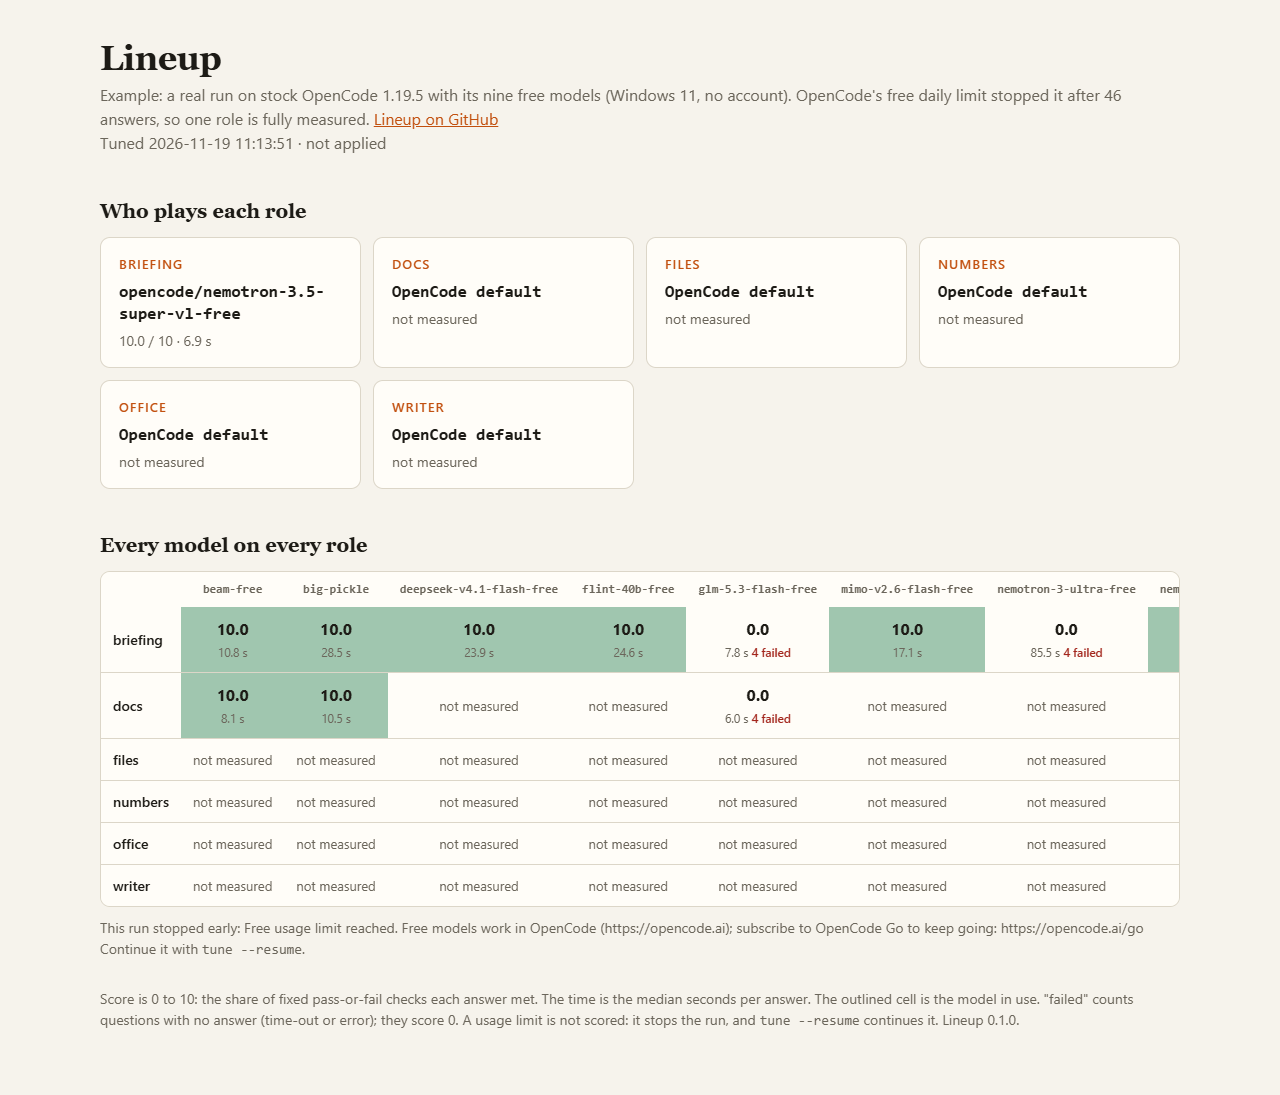
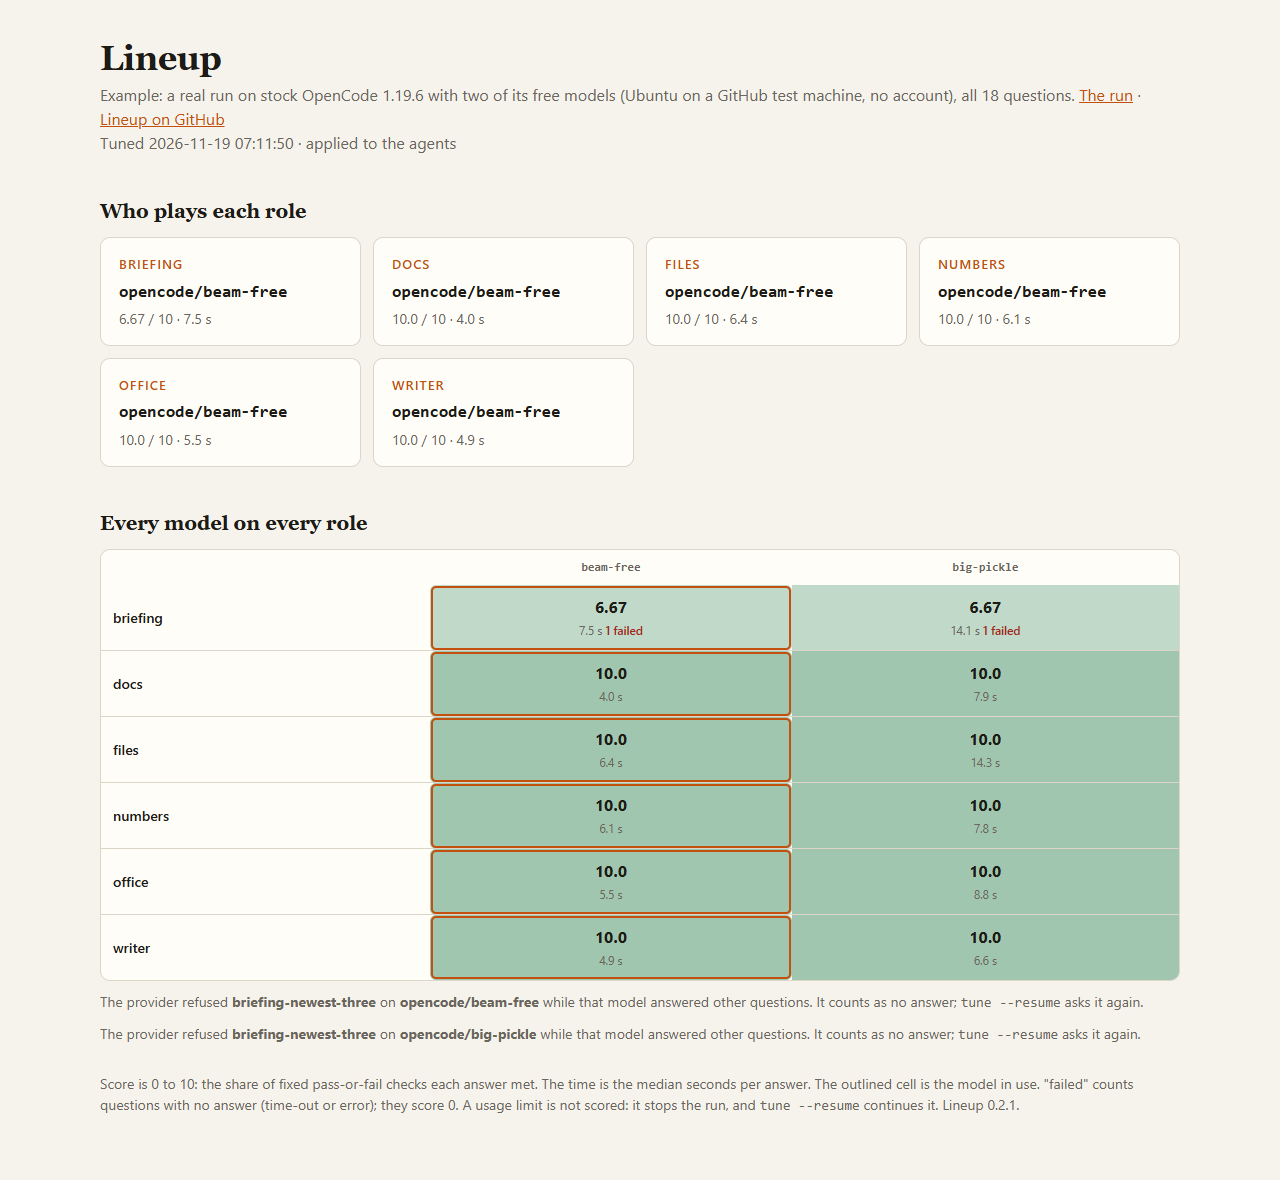
0.2.1: complete tuning runs on Ubuntu and macOS, the Ubuntu run is the new example

diff --git a/docs/index.html b/docs/index.html
@@ -51,26 +51,26 @@
 <body>
 <main>
   <h1>Lineup</h1>
-  <p class="lead">Example: a real run on stock OpenCode 1.19.5 with its nine free models (Windows 11, no account). OpenCode&#39;s free daily limit stopped it after 46 answers, so one role is fully measured. <a href="https://github.com/juw12/lineup">Lineup on GitHub</a></p>
-  <p class="lead">Tuned 2026-11-19 11:13:51 &middot; not applied</p>
+  <p class="lead">Example: a real run on stock OpenCode 1.19.6 with two of its free models (Ubuntu on a GitHub test machine, no account), all 18 questions. <a href="https://github.com/juw12/lineup/actions/runs/44477706951">The run</a> &middot; <a href="https://github.com/juw12/lineup">Lineup on GitHub</a></p>
+  <p class="lead">Tuned 2026-11-19 07:11:50 &middot; applied to the agents</p>
 
   <h2>Who plays each role</h2>
-  <div class="cards"><div class="card"><p class="role">briefing</p><p class="model">opencode/nemotron-3.5-super-vl-free</p><p class="meta">10.0 / 10 &middot; 6.9 s</p></div><div class="card"><p class="role">docs</p><p class="model">OpenCode default</p><p class="meta">not measured</p></div><div class="card"><p class="role">files</p><p class="model">OpenCode default</p><p class="meta">not measured</p></div><div class="card"><p class="role">numbers</p><p class="model">OpenCode default</p><p class="meta">not measured</p></div><div class="card"><p class="role">office</p><p class="model">OpenCode default</p><p class="meta">not measured</p></div><div class="card"><p class="role">writer</p><p class="model">OpenCode default</p><p class="meta">not measured</p></div></div>
+  <div class="cards"><div class="card"><p class="role">briefing</p><p class="model">opencode/beam-free</p><p class="meta">6.67 / 10 &middot; 7.5 s</p></div><div class="card"><p class="role">docs</p><p class="model">opencode/beam-free</p><p class="meta">10.0 / 10 &middot; 4.0 s</p></div><div class="card"><p class="role">files</p><p class="model">opencode/beam-free</p><p class="meta">10.0 / 10 &middot; 6.4 s</p></div><div class="card"><p class="role">numbers</p><p class="model">opencode/beam-free</p><p class="meta">10.0 / 10 &middot; 6.1 s</p></div><div class="card"><p class="role">office</p><p class="model">opencode/beam-free</p><p class="meta">10.0 / 10 &middot; 5.5 s</p></div><div class="card"><p class="role">writer</p><p class="model">opencode/beam-free</p><p class="meta">10.0 / 10 &middot; 4.9 s</p></div></div>
 
   <h2>Every model on every role</h2>
   <div class="scroll">
     <table>
-      <thead><tr><th></th><th>beam-free</th><th>big-pickle</th><th>deepseek-v4.1-flash-free</th><th>flint-40b-free</th><th>glm-5.3-flash-free</th><th>mimo-v2.6-flash-free</th><th>nemotron-3-ultra-free</th><th>nemotron-3.5-lightning-free</th><th>nemotron-3.5-super-vl-free</th></tr></thead>
-      <tbody><tr><th>briefing</th><td style="--score:1.0"><b>10.0</b><small>10.8 s</small></td><td style="--score:1.0"><b>10.0</b><small>28.5 s</small></td><td style="--score:1.0"><b>10.0</b><small>23.9 s</small></td><td style="--score:1.0"><b>10.0</b><small>24.6 s</small></td><td style="--score:0.0"><b>0.0</b><small>7.8 s <span class="failed">4 failed</span></small></td><td style="--score:1.0"><b>10.0</b><small>17.1 s</small></td><td style="--score:0.0"><b>0.0</b><small>85.5 s <span class="failed">4 failed</span></small></td><td style="--score:1.0"><b>10.0</b><small>20.5 s</small></td><td class="chosen" style="--score:1.0"><b>10.0</b><small>6.9 s</small></td></tr><tr><th>docs</th><td style="--score:1.0"><b>10.0</b><small>8.1 s</small></td><td style="--score:1.0"><b>10.0</b><small>10.5 s</small></td><td class="none">not measured</td><td class="none">not measured</td><td style="--score:0.0"><b>0.0</b><small>6.0 s <span class="failed">4 failed</span></small></td><td class="none">not measured</td><td class="none">not measured</td><td class="none">not measured</td><td class="none">not measured</td></tr><tr><th>files</th><td class="none">not measured</td><td class="none">not measured</td><td class="none">not measured</td><td class="none">not measured</td><td class="none">not measured</td><td class="none">not measured</td><td class="none">not measured</td><td class="none">not measured</td><td class="none">not measured</td></tr><tr><th>numbers</th><td class="none">not measured</td><td class="none">not measured</td><td class="none">not measured</td><td class="none">not measured</td><td class="none">not measured</td><td class="none">not measured</td><td class="none">not measured</td><td class="none">not measured</td><td class="none">not measured</td></tr><tr><th>office</th><td class="none">not measured</td><td class="none">not measured</td><td class="none">not measured</td><td class="none">not measured</td><td class="none">not measured</td><td class="none">not measured</td><td class="none">not measured</td><td class="none">not measured</td><td class="none">not measured</td></tr><tr><th>writer</th><td class="none">not measured</td><td class="none">not measured</td><td class="none">not measured</td><td class="none">not measured</td><td class="none">not measured</td><td class="none">not measured</td><td class="none">not measured</td><td class="none">not measured</td><td class="none">not measured</td></tr></tbody>
+      <thead><tr><th></th><th>beam-free</th><th>big-pickle</th></tr></thead>
+      <tbody><tr><th>briefing</th><td class="chosen" style="--score:0.667"><b>6.67</b><small>7.5 s <span class="failed">1 failed</span></small></td><td style="--score:0.667"><b>6.67</b><small>14.1 s <span class="failed">1 failed</span></small></td></tr><tr><th>docs</th><td class="chosen" style="--score:1.0"><b>10.0</b><small>4.0 s</small></td><td style="--score:1.0"><b>10.0</b><small>7.9 s</small></td></tr><tr><th>files</th><td class="chosen" style="--score:1.0"><b>10.0</b><small>6.4 s</small></td><td style="--score:1.0"><b>10.0</b><small>14.3 s</small></td></tr><tr><th>numbers</th><td class="chosen" style="--score:1.0"><b>10.0</b><small>6.1 s</small></td><td style="--score:1.0"><b>10.0</b><small>7.8 s</small></td></tr><tr><th>office</th><td class="chosen" style="--score:1.0"><b>10.0</b><small>5.5 s</small></td><td style="--score:1.0"><b>10.0</b><small>8.8 s</small></td></tr><tr><th>writer</th><td class="chosen" style="--score:1.0"><b>10.0</b><small>4.9 s</small></td><td style="--score:1.0"><b>10.0</b><small>6.6 s</small></td></tr></tbody>
     </table>
   </div>
-  <div class="notes"><p>This run stopped early: Free usage limit reached. Free models work in OpenCode (https://opencode.ai); subscribe to OpenCode Go to keep going: https://opencode.ai/go Continue it with <code>tune --resume</code>.</p></div>
+  <div class="notes"><p>The provider refused <b>briefing-newest-three</b> on <b>opencode/beam-free</b> while that model answered other questions. It counts as no answer; <code>tune --resume</code> asks it again.</p><p>The provider refused <b>briefing-newest-three</b> on <b>opencode/big-pickle</b> while that model answered other questions. It counts as no answer; <code>tune --resume</code> asks it again.</p></div>
 
   <footer>
     Score is 0 to 10: the share of fixed pass-or-fail checks each answer met. The time is the median seconds per answer.
     The outlined cell is the model in use. "failed" counts questions with no answer (time-out or error); they score 0.
     A usage limit is not scored: it stops the run, and <code>tune --resume</code> continues it.
-    Lineup 0.1.0.
+    Lineup 0.2.1.
   </footer>
 </main>
 </body>

diff --git a/lineup.py b/lineup.py
@@ -8,7 +8,7 @@
     python lineup.py report       write and open the score page
     python lineup.py uninstall    remove the agents again
 
-Standard library only. Runs on Windows, macOS and Linux; the full tuning run is measured on Windows.
+Standard library only. Runs on Windows, macOS and Linux.
 """
 import argparse
 import concurrent.futures

diff --git a/README.md b/README.md
@@ -6,7 +6,7 @@ A team of six role agents for [OpenCode](https://opencode.ai) that picks its own
 
 ![The score page of the example run](docs/report.png)
 
-The picture is the score page of a real run, also at [juw12.github.io/lineup](https://juw12.github.io/lineup/). It is mostly empty for a reason: see [The example run](#the-example-run).
+The picture is the score page of a real run, also at [juw12.github.io/lineup](https://juw12.github.io/lineup/). It shows the finishing run: see [The finishing run](#the-finishing-run).
 
 ## What you get
 
@@ -115,7 +115,20 @@ A dry run of one model (big-pickle) on all twelve questions earlier that day pas
 ### The finishing run
 
 <!-- finishing-run:start -->
-Not done yet. Three of the free models will be asked all 18 questions on the same machine once the free limit allows it again, first try on 20 November 2026. The result will replace this paragraph and the score page.
+Done on 19 November 2026, on one of GitHub's test machines instead of the first machine, whose free limit lasts until 20 November: Ubuntu, stock OpenCode 1.19.6, no account, two free models, all 18 questions (two everyday and one harder per role), each asked once, and the lineup applied to the agents. [The run](https://github.com/juw12/lineup/actions/runs/44477706951) keeps its files until 17 February 2027; the raw log is [docs/finishing-run.log](docs/finishing-run.log).
+
+| Role | beam-free | big-pickle | Pick |
+|---|---|---|---|
+| briefing | 6.67 in 7.5 s, 1 of 3 without an answer | 6.67 in 14.1 s, 1 of 3 without an answer | beam-free |
+| docs | 10 in 4 s | 10 in 7.9 s | beam-free |
+| files | 10 in 6.4 s | 10 in 14.3 s | beam-free |
+| numbers | 10 in 6.1 s | 10 in 7.8 s | beam-free |
+| office | 10 in 5.5 s | 10 in 8.8 s | beam-free |
+| writer | 10 in 4.9 s | 10 in 6.6 s | beam-free |
+
+Each cell is the score out of 10 and the median time per answer. The pick is the best score, and the faster model when scores are equal.
+
+34 of 36 questions were answered, and every answer scored 10. Two got no answer: `briefing-newest-three`, once on each model. The provider refused it with "Free usage limit reached" while the same model answered the other questions. Up to 0.2.0 that message stopped the whole run. Since 0.2.1 Lineup asks the model one short question first: if that is answered, only this question counts as no answer and the run goes on. Why the provider refuses this question I do not know. On the Windows machine, earlier the same day, seven free models answered `briefing-newest-three` (the table above).
 <!-- finishing-run:end -->
 
 ## Your own tasks
@@ -138,7 +151,7 @@ Check types: `regex` (must match), `absent` (must not match), `bullets` (exact n
 
 - Twelve small tasks, or eighteen with `--hard`, and one or two runs are a small sample. Read a score of 10 as "passed these checks", not as "the best model".
 - Pass-or-fail checks measure whether an answer is correct and in the asked format. They do not measure style or depth.
-- The full tuning run is tested on Windows 11 with stock OpenCode 1.19.5, and on one OpenCode 2.x build, where Lineup adds `--standalone` so each question gets its own server. On macOS and Linux the unit tests run on every push, and a second job installs OpenCode there and checks that it lists the six agents. A tuning run there was tried in CI with two free models, `opencode/big-pickle` and `opencode/beam-free`, on all 18 questions: on Ubuntu and on macOS 17 of 18 were answered and scored 10, and the same one question (the three newest items of the feed) was refused every time with OpenCode's "Free usage limit reached", also when asked alone after a wait ([run with beam-free](https://github.com/juw12/lineup/actions/runs/44469486072), [run with big-pickle](https://github.com/juw12/lineup/actions/runs/44467856503)). I have not found the cause, so a complete tuning run on macOS or Linux is still missing.
+- The full tuning run is tested on Windows 11 with stock OpenCode 1.19.5, and on one OpenCode 2.x build, where Lineup adds `--standalone` so each question gets its own server. On Ubuntu and macOS it is tested on GitHub's test machines, not on a person's computer: with OpenCode 1.19.6 and two free models, [one run on each system](https://github.com/juw12/lineup/actions/runs/44477706951) asked all 18 questions per model, measured all six roles and applied the lineup. On both, 34 of 36 questions were answered and scored 10, and `briefing-newest-three` was refused on both models with "Free usage limit reached", which counts as no answer. [A check of that question](https://github.com/juw12/lineup/actions/runs/44474441495) showed that it is answered with another agent, and also when it asks for the titles only or the links only, so the provider refuses it by its content. Why, I do not know. The unit tests run on all three systems on every push, and a second job installs OpenCode and checks that it lists the six agents.
 - `lineup.exe` is built by a GitHub workflow from the tagged source and is not code-signed, so Windows may show a warning the first time you start it. The release lists its SHA-256.
 - Every question starts OpenCode once, so a question takes seconds even on a fast model.
 - I did not find another OpenCode add-on that measures models on your own machine and writes the result into the agents. If you know one, please open an issue and I will link it here.

diff --git a/CHANGELOG.md b/CHANGELOG.md
@@ -1,9 +1,13 @@
 # Changes
 
-## After 0.2.0 (not in a release yet)
+## 0.2.1 (19 November 2026)
 
-- The test workflow can ask one real model every question on Ubuntu and macOS when started by hand. It continues once with `--resume` after a usage-limit stop and prints why a question got no answer.
-- Result of that job with two free models: 17 of 18 questions answered and scored 10 on both systems; one question was refused by the free plan every time, so a complete tuning run on macOS or Linux is still missing. The README limits say so.
+- A provider can refuse one question with its usage-limit message while it answers the rest. Up to 0.2.0 that stopped the whole run, and `--resume` stopped at the same question again. Now Lineup asks the model one short question: if that is answered, the refused question counts as no answer, is named in the output and on the score page, and the run goes on. A real usage limit still stops the run as before.
+- The check after applying a lineup uses a question that was not refused.
+- Roll call: the first model is asked alone. On a fresh OpenCode two first starts at once collided ("database is locked"), and a working model was left out.
+- Complete tuning runs on Ubuntu and macOS, on GitHub's test machines: two free models, all 18 questions, lineup applied. On both, 34 of 36 questions were answered and scored 10, and one question was refused on both models ([run](https://github.com/juw12/lineup/actions/runs/44477706951)). The Ubuntu run is the new example score page.
+- The test workflow can do a full tuning run with several real models when started by hand, and keeps the result files.
+- 40 tests, 38 before.
 
 ## 0.2.0 (19 November 2026)
 
